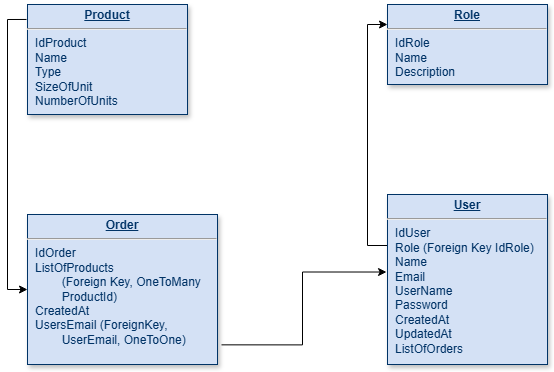
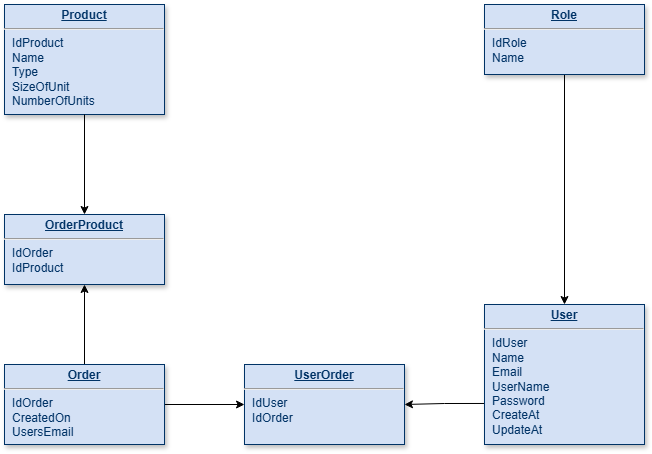
Updated Database diagram and database section in ReadMe file

diff --git a/README.md b/README.md
@@ -33,24 +33,22 @@ The live version of the application is available at
 1. [Features](#features)
     * [Home Page](#home-page)
     * [Navigation Bar](#navigation-bar)
-    <!-- * [Footer](#footer) -->
-    <!-- * [Newsletter](#newsletter) -->
     * [Shoping List Page](#shopping-list-page)
     * [Summary Page](#summary-page)
 2. [Future Features](#future-features)
 3. [Color Scheme](#-colour-scheme)
-<!-- 5. [Future Features](#) -->
 4. [UiPath Automations](#uipath-automations)
     * [SSB Dispatcher](#spring-shopping-bot-dispatcher)
     * [SSB Dispatcher](#spring-shopping-bot-performer)
 5. [Technologies Used](#technologies-used)
-6. [Database Design](#database-design)
-7. [Deployment](#deployment)
+6. [Java Classes](#java-classes)
+7. [Database Design](#database-design)
+8. [Deployment](#deployment)
     * [Heroku Deployment](#heroku-deployment)
     <!-- * [Local Deployment](#local-deployment) -->
 <!-- 10. [Agile Development Process](#10-agile-development-process) -->
 <!-- 13. [Newsletter Marketing](#13-newsletter-marketing) -->
-8. [References and Credits](#links-and-references)
+9. [References and Credits](#links-and-references)
 
 # Features
 
@@ -114,52 +112,6 @@ ensuring that users receive timely and accurate information on the best product 
 
 
 
-<!-- ## **ShoppingList class**
-
-This class stores Products to be shopped. It is of type List<Product> -->
-
-## **Product class**
-
-Contains the following fields:
-
- - Id (consider if it is needed for a objects such as products) -  a unique integer value
- - Name - the name of the product. Consider if more than one product by the same name can be 
- added to the list.
- - Size - this value is probably going to be of String type as it can define the size in liters, 
- grams or number of unts in the package.
- - Quantity - an integer value that describes the number of products we want to add the list.
-
-```java
-    public class Product {
-
-        private int id;
-        private String name;
-        private String type;
-        private String sizeOfUnit;
-        private int numOfUnits;
-```
-
-
-## **Order class**
-
-This class defines the order placed by the user. It contains values such as: 
- - Id.
- - Date of placing the order.
- - List of products added to the order.
- - User's email address to which order confirmation and results will be sent.
-
-```java
-    public class Order {
-
-    //    private int id;
-        @NotBlank(message = "Email is required")
-        @Email(message = "Please provide a valid email address")
-        private String userEmail;
-        private List<Product> listOfProducts = new ArrayList<Product>();
-        private LocalDateTime orderDate;
-    }
-```
-
 # **Future Features**
 
 ## **Shopper class**
@@ -222,9 +174,76 @@ To make the distinction process easier, an auxiliary variable (`tempEmail`) was 
 ![Performer FLowchart](/diagrams_and_flowcharts/Performer/performer_flowchart_diagram.png)
 
 
+# Java Classes
+
+<!-- ## **ShoppingList class**
+
+This class stores Products to be shopped. It is of type List<Product> -->
+
+## **Product class**
+
+Contains the following fields:
+
+ - Id (consider if it is needed for a objects such as products) -  a unique integer value
+ - Name - the name of the product. Consider if more than one product by the same name can be 
+ added to the list.
+ - Size - this value is probably going to be of String type as it can define the size in liters, 
+ grams or number of unts in the package.
+ - Quantity - an integer value that describes the number of products we want to add the list.
+
+```java
+    public class Product {
+
+        private int id;
+        private String name;
+        private String type;
+        private String sizeOfUnit;
+        private int numOfUnits;
+```
+
+
+## **Order class**
+
+This class defines the order placed by the user. It contains values such as: 
+ - Id.
+ - Date of placing the order.
+ - List of products added to the order.
+ - User's email address to which order confirmation and results will be sent.
+
+```java
+    public class Order {
+
+    //    private int id;
+        @NotBlank(message = "Email is required")
+        @Email(message = "Please provide a valid email address")
+        private String userEmail;
+        private List<Product> listOfProducts = new ArrayList<Product>();
+        private LocalDateTime orderDate;
+    }
+```
+
+
 # Database Design
 
 ![Database Diagram](/diagrams_and_flowcharts/Database/database_schema.png)
+
+## Product Table
+Stores details of available products, including Id, Name, Type, SizeOfUnit, and NumOfUnits, providing essential attributes for product identification and classification within the application.
+
+## Order Table
+Tracks customer orders with fields Id, CreatedOn, UserEmail, and ProductList, maintaining links to ordered products and users while supporting historical record-keeping.
+
+## User Table
+Holds user information, including Id, Name, Email, Username, Password, and OrderList, managing essential user credentials and associating each user with their orders.
+
+## Role Table
+Defines user roles such as ADMIN and USER with fields Id and Name, supporting role-based access control to enforce permissions across different parts of the application.
+
+## OrderProduct Table: 
+The OrderProduct table holds the OrderId and ProductId to establish the many-to-many relationship between orders and products. Each entry represents a product associated with an order.
+
+## UserOrder Table: 
+The UserOrder table holds the UserId and OrderId to link users with their orders. Each entry represents an order placed by a user.
 
 # Technologies Used
 
